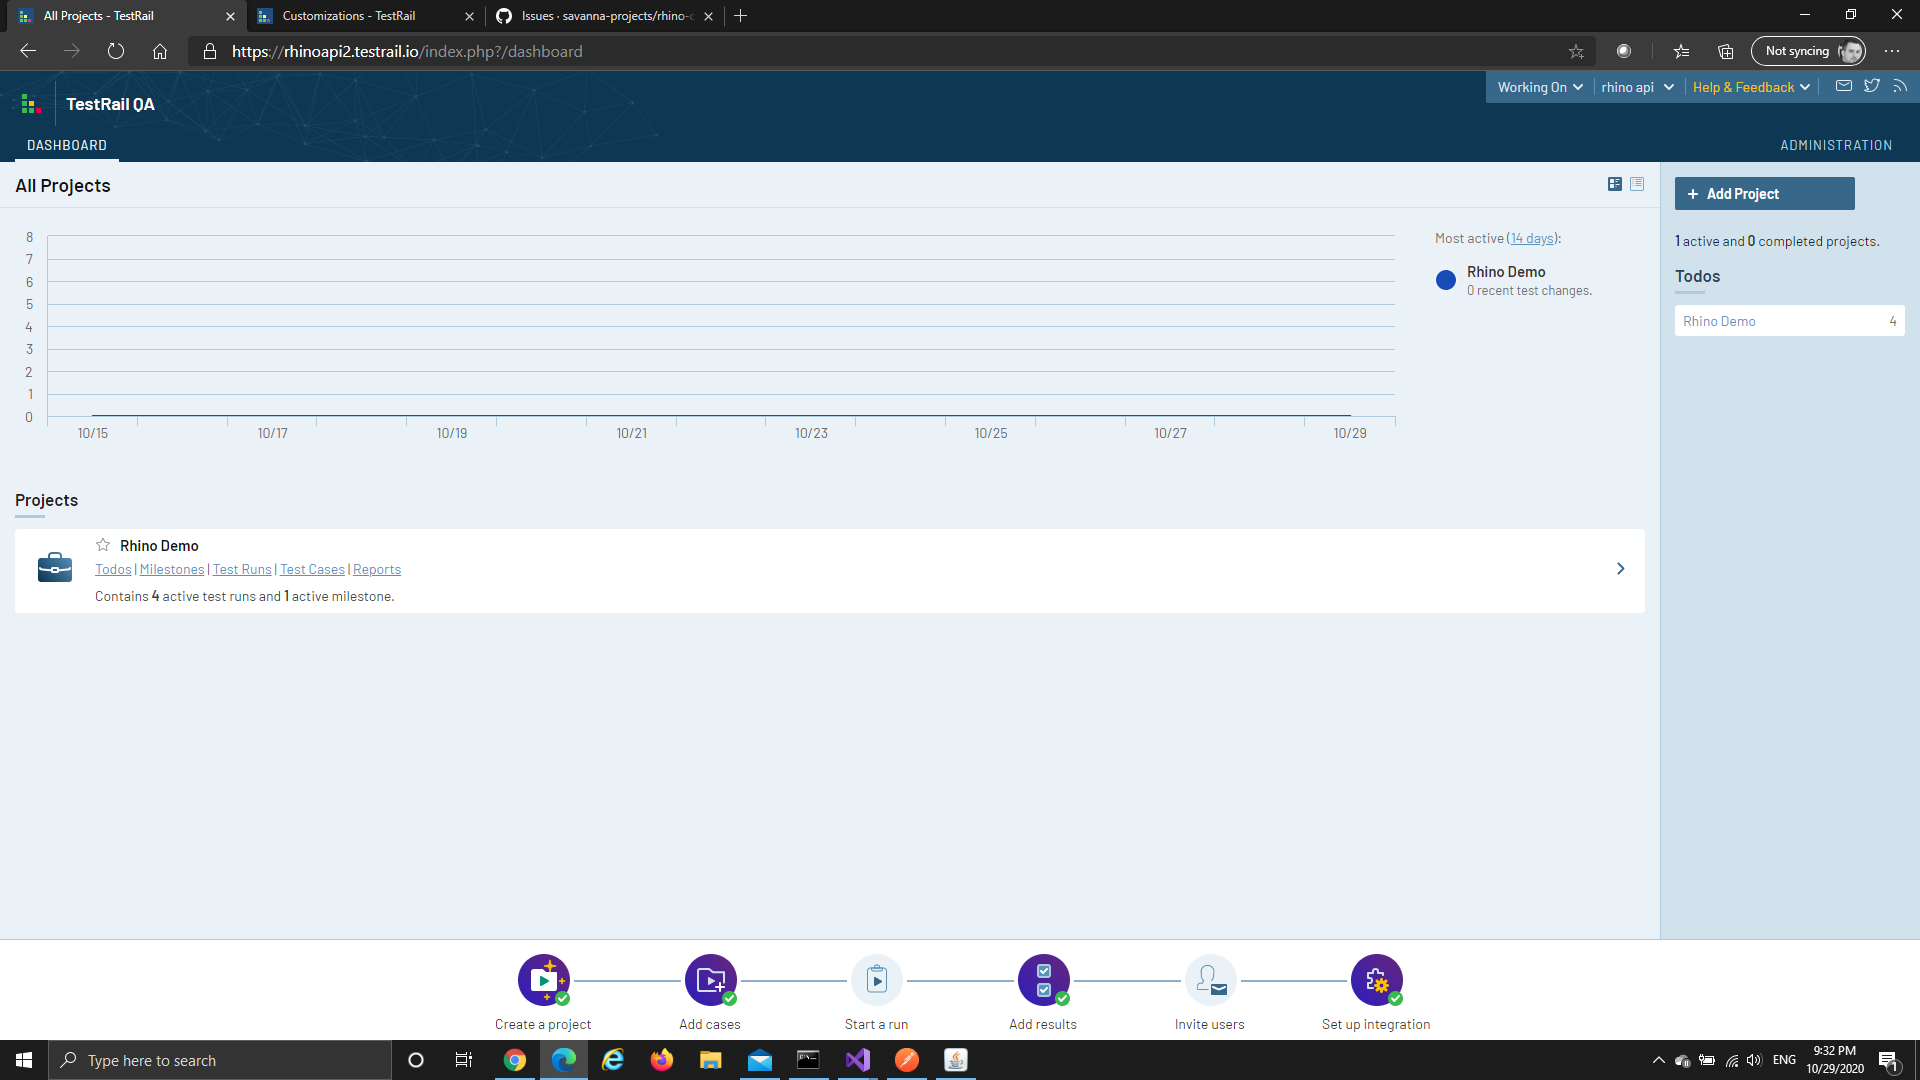
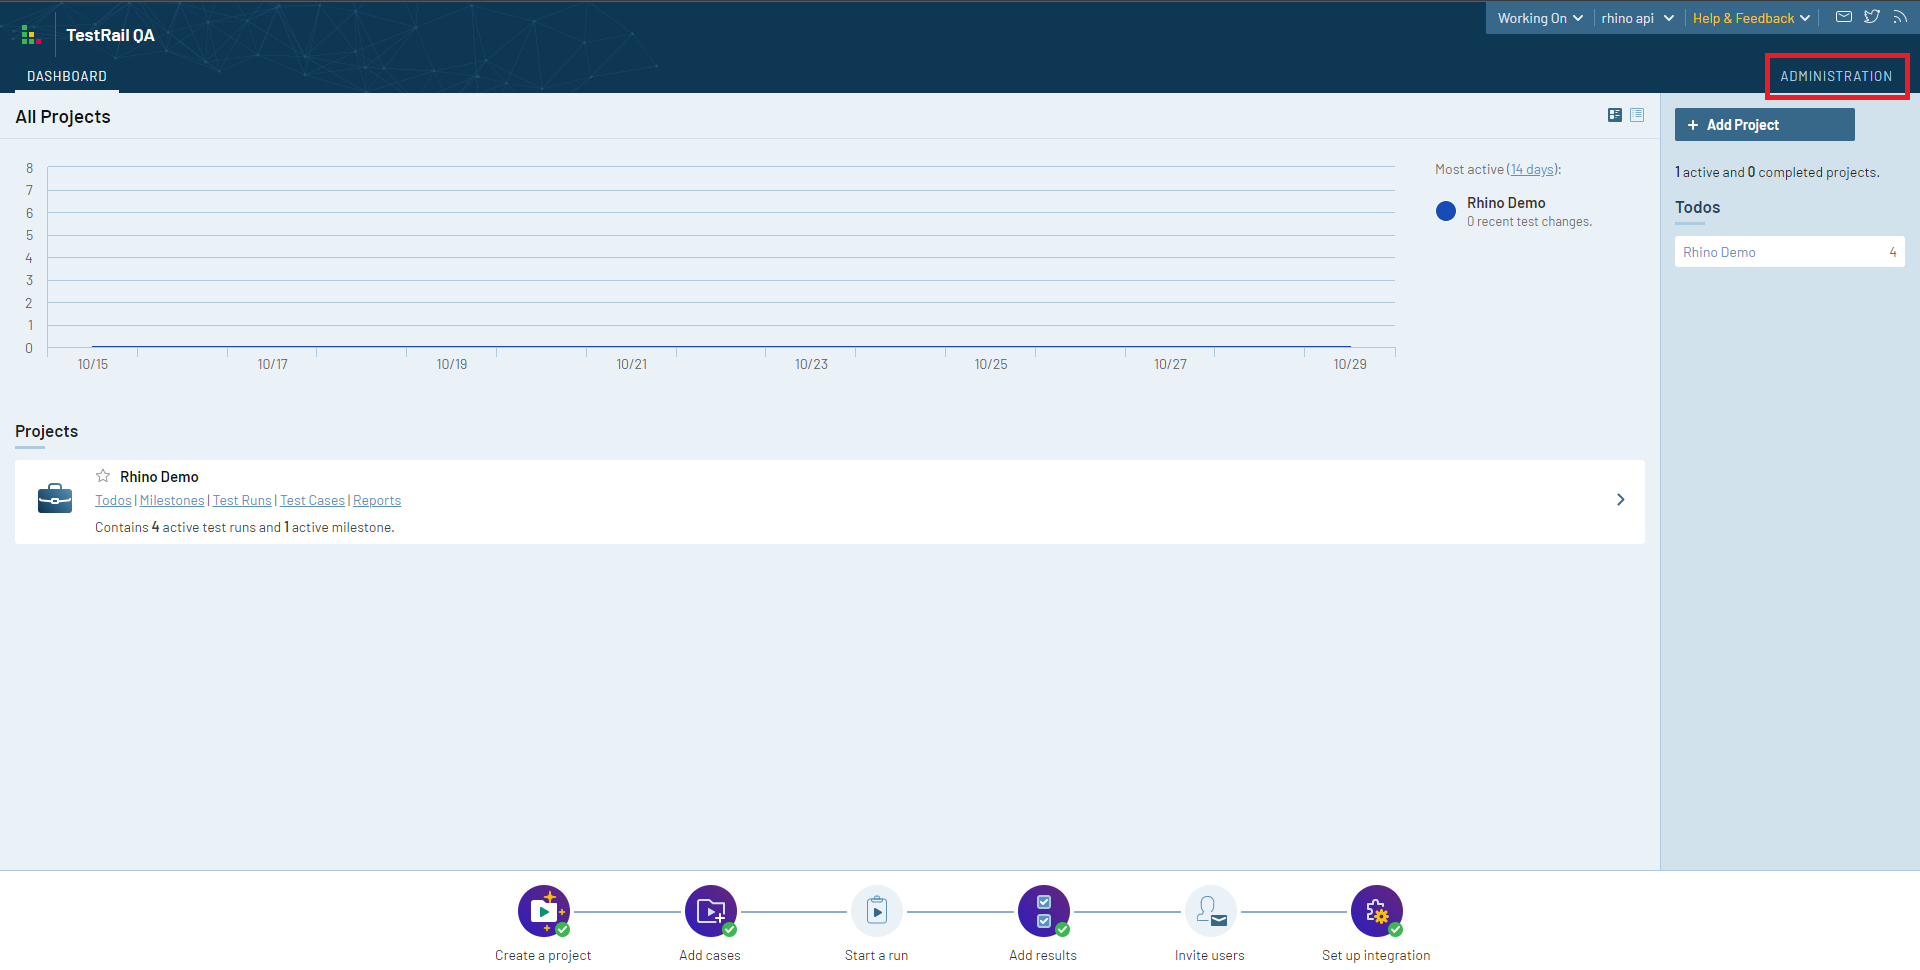
documentation

diff --git a/docs/basics/TestRailConfiguration.md b/docs/basics/TestRailConfiguration.md
@@ -1,0 +1,110 @@
+[Home](../README.md 'README') 
+
+# TestRail Configuration
+11/01/2020 - 25 minutes to read
+
+## In This Article
+* [Priorities Configuration](#priorities-configuration)
+* [Jira Integration Configuration](#jira-integration-configuration)  
+
+> Rhino can be integrated with both Jira Server (on premise) and Jira cloud.
+
+In order so successfully integrate with Jira, TestRail requires some adjustments and setups. Without these setups, some of the features (like bugs manager) might not work properly.
+
+## Priorities Configuration
+Rhino uses the case priority as the priority value when creating a bug for that case. In order to make sure the integration is correct, the priorities list must match on both TestRail and Jira sides.  
+
+Assuming that Jira priorities are as follow (names and order):
+1. Highest
+2. High
+3. Medium
+4. Low
+5. Lowest  
+
+Please follow these steps in order to align TestRail priorities with Jira:  
+
+1. From TestRail main page, click on **Administration** link.  
+
+![test_rail_1.png](../../images/test_rail_1.png)  
+_image - Administration Link_  
+
+2. From the **Administration** page under **Customizations** tile, click on **Manage Customizations** link.  
+
+![test_rail_2.png](../../images/test_rail_2.png)  
+_image - Customizations Link_  
+
+3. Find **Priorities** panel under **Manage Customizations** and click on **Add Priority** button.
+
+![test_rail_3.png](../../images/test_rail_3.png)  
+_image - Add Priority Button_  
+
+4. Under **Add Priority** screen
+    1. Type **Lowest** into **Name** text-box.
+    2. Type **Lowest** into **Abbreviation** text-box.
+    3. Click on **Add Priority** button.  
+
+![test_rail_5.png](../../images/test_rail_5.png)  
+_image - Add Priority Screen_  
+
+5. Find **Priorities** panel under **Manage Customizations** and click on **Edit Priority** button under **Critical** priority.  
+
+![test_rail_9.png](../../images/test_rail_9.png)  
+_image - Edit Priority Button_  
+
+6. Under **Edit Priority** screen
+    1. Type **Highest** into **Highest** text-box instead of **Critical**.
+    2. Type **Highest** into **Abbreviation** text-box instead of **Critical**.
+    3. Click on **Save Priority** button.  
+
+![test_rail_6.png](../../images/test_rail_6.png)  
+_image - Add Priority Screen_  
+
+7. Using the arrows arrange the priorities in the same order as they appear in Jira
+    1. Highest
+    2. High
+    3. Medium
+    4. Low
+    5. Lowest  
+
+![test_rail_7.png](../../images/test_rail_7.png)  
+_image - Priority Arrows_  
+
+8. Under Jira, open **Create Issue** screen find **Priority** field, delete the value in it, and click to expand it. It is expected that the values in Jira will be the same with both name and order as in TestRail.  
+
+![test_rail_8.png](../../images/test_rail_8.png)  
+_image - Final Result_
+
+## Jira Integration Configuration
+Jira integration allows Test R
+
+1. From TestRail main page, click on **Administration** link.  
+
+![test_rail_1.png](../../images/test_rail_1.png)  
+_image - Administration Link_  
+
+2. From the **Administration** page under **Integration** tile, click on **Manage Integration** link.  
+
+![test_rail_10.png](../../images/test_rail_10.png)  
+_image - Integration Link_  
+
+3. Click on **Configure Jira Integration button**.  
+
+![test_rail_integration_1.png](../../images/test_rail_integration_1.png)  
+_image - Configure Jira Integration_  
+
+4. Under **Configure Jira Integration** screen do the following:
+    1. Provide your Jira Cloud Web Address URL. Usually, it looks something like "https://yourcustomname.atlassian.net".
+    2. Under **Jira Version**, it set Jira Cloud as the option.
+    3. Under **Jira Email address**, provide the email address you have with your Jira Cloud instance.
+    4. Under **Jira API Token**, provide your [Jira Cloud API Token](https://docs.gitlab.com/ee/user/project/integrations/jira_cloud_configuration.html).
+    5. Ensure that both the **Defect** and **Reference** checkboxes are enabled and click on **Save Settings** button.  
+
+![test_rail_integration_2.png](../../images/test_rail_integration_2.png)  
+_image - Configure Jira Integration_  
+
+5. Scroll down and click on **Save Settings** button to finalize the changes.
+
+## See Also
+* [Configuring the Jira Cloud Integration](https://www.gurock.com/testrail/docs/integrate/tools/jira/cloud)
+* [TestRail Case](https://www.tutorialspoint.com/testrail/testrail_case.htm)
+* [How to Create Jira API Token](https://docs.gitlab.com/ee/user/project/integrations/jira_cloud_configuration.html)

diff --git a/README.md b/README.md
@@ -1,25 +1,17 @@
-# Rhino Connectors: Gurock
-Rhino API connectors for using with [Test Rail](https://www.gurock.com/testrail/) product.
+[Home](../Home.md 'Home') 
 
-## Automation Provider Capabilites
-The list of optional capabilities which you can pass with Rhino ProviderConfiguration.  
+# Gurock Connector - Overview
+11/01/2020 - 1 minutes to read
 
-The options must be passed under `<connector_name>:options` key, as follow:
+## In This Article
+* [Connector Capabilities](./docs/basics/ConnectorCapabilities.md 'ConnectorCapabilities')
+* [TestRail Configuration](./docs/basics/TestRailConfiguration.md 'TestRailConfiguration')  
 
-```js
-...
-"capabilities": {
-	"connector_test_rail:options": {
-		"dryRun": false,
-		"bucketSize": 15,
-		...
-	}
-}
-...
-```
+Rhino API connectors for using with [TestRail](https://www.gurock.com/testrail/) product. The bugs management tool using by this connector is Jira (both cloud and server are supported).
 
-|Name              |Type   |Description                                                                                                   |
-|------------------|-------|--------------------------------------------------------------------------------------------------------------|
-|dryRun            |boolean|Holds a boolean value rather or not to create Test Execution entity when running tests.                       |
-|bucketSize        |number |How many parallel requests can be sent to Jira/XRay API when executing a large number of tests. Default is 4. |
-|bugType           |string |Bug issue type capability, if not set "Bug" is the default.                                                   |
+## Known Issues
+* When adding more than one result to a test run, the latest result is automatically assigned. If running a data driven test and the last iteration pass, even if other iterations failed, the run will be marked as passed. This is a known [TestRail issue](https://discuss.gurock.com/t/test-results-all-steps-failed-but-overall-result-passed-cant-edit/605/2) which is not yet fixed. TestRail does not have an API for changing run results directly and therefore Rhino cannot change it.
+* Atlassian is shifting to "Cloud First" and therefore [removing the future support and licenses sales for Jira Server](https://www.atlassian.com/migration/faqs#server). If this is your first use with Jira, we recommend to take Jira Cloud.
+
+## See Also
+* [TestRail User Guide](https://www.gurock.com/testrail/docs/user-guide)

diff --git a/docs/basics/ConnectorCapabilities.md b/docs/basics/ConnectorCapabilities.md
@@ -1,0 +1,34 @@
+[Home](../README.md 'README') 
+
+# Connector Capabilities
+11/01/2020 - 10 minutes to read
+
+## In This Article
+* [Automation Provider Capabilities](#automation-provider-capabilites)  
+
+Each connector implements it's own integration capabilities and the behavior depends on the implementation. Please follow this post in order to perform a successful integration with TestRail.
+
+## Automation Provider Capabilities
+The list of optional capabilities which you can pass with Rhino Configuration.  
+
+The options must be passed under `<connector_name>:options` key, as follow:
+
+```js
+...
+"capabilities": {
+  "connector_test_rail:options": {
+    "bugType": "bug",
+    "jiraCollection": "https://myjira.atlassian.net",
+    ...
+  }
+}
+...
+```  
+
+|Name          |Type   |Description                                                                                            |
+|--------------|-------|-------------------------------------------------------------------------------------------------------|
+|jiraCollection|string |The server base address under which the application is hosted (i.e. https://myjira.atlassian.net).     |
+|jiraPassword  |string |A valid password for your application.                                                                 |
+|jiraUserName  |string |A valid user for your application. The user must have create permissions for **Bugs**.                 |
+|jiraProject   |string |The project name or ID (depends on the connector implementation) under which to find and execute tests.|
+|bugType       |string |Bug issue type capability, if not set "Bug" is the default.                                            |
